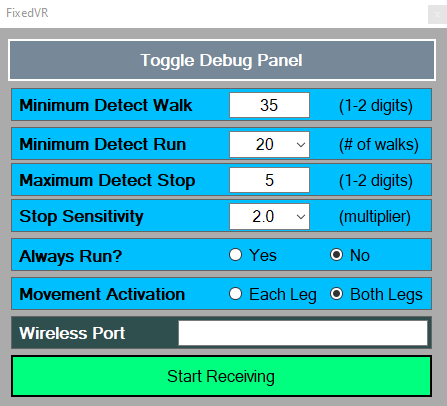
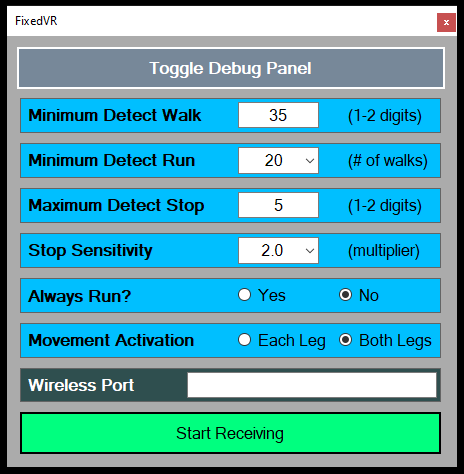
UI spacing

diff --git a/FixedVR/Main.Designer.cs b/FixedVR/Main.Designer.cs
@@ -92,7 +92,7 @@ namespace FixedVR
             this.Txt_debug.Multiline = true;
             this.Txt_debug.Name = "Txt_debug";
             this.Txt_debug.ScrollBars = System.Windows.Forms.ScrollBars.Vertical;
-            this.Txt_debug.Size = new System.Drawing.Size(421, 274);
+            this.Txt_debug.Size = new System.Drawing.Size(421, 324);
             this.Txt_debug.TabIndex = 0;
             this.Txt_debug.TabStop = false;
             // 
@@ -102,7 +102,8 @@ namespace FixedVR
             this.Btn_connect.FlatAppearance.BorderSize = 2;
             this.Btn_connect.FlatStyle = System.Windows.Forms.FlatStyle.Flat;
             this.Btn_connect.Font = new System.Drawing.Font("Microsoft Sans Serif", 12F, System.Drawing.FontStyle.Regular, System.Drawing.GraphicsUnit.Point, ((byte)(0)));
-            this.Btn_connect.Location = new System.Drawing.Point(3, 270);
+            this.Btn_connect.Location = new System.Drawing.Point(3, 319);
+            this.Btn_connect.Margin = new System.Windows.Forms.Padding(5);
             this.Btn_connect.Name = "Btn_connect";
             this.Btn_connect.Size = new System.Drawing.Size(421, 42);
             this.Btn_connect.TabIndex = 6;
@@ -119,7 +120,7 @@ namespace FixedVR
             this.Flowlayout_main.FlowDirection = System.Windows.Forms.FlowDirection.TopDown;
             this.Flowlayout_main.Location = new System.Drawing.Point(7, 8);
             this.Flowlayout_main.Name = "Flowlayout_main";
-            this.Flowlayout_main.Size = new System.Drawing.Size(436, 696);
+            this.Flowlayout_main.Size = new System.Drawing.Size(436, 794);
             this.Flowlayout_main.TabIndex = 7;
             // 
             // Btn_toggledebug
@@ -145,14 +146,14 @@ namespace FixedVR
             this.Panel_debug.Controls.Add(this.Txt_debug);
             this.Panel_debug.Location = new System.Drawing.Point(3, 49);
             this.Panel_debug.Name = "Panel_debug";
-            this.Panel_debug.Size = new System.Drawing.Size(428, 318);
+            this.Panel_debug.Size = new System.Drawing.Size(428, 367);
             this.Panel_debug.TabIndex = 8;
             this.Panel_debug.Visible = false;
             // 
             // Btn_stopdebug
             // 
             this.Btn_stopdebug.Font = new System.Drawing.Font("Microsoft Sans Serif", 12F, System.Drawing.FontStyle.Regular, System.Drawing.GraphicsUnit.Point, ((byte)(0)));
-            this.Btn_stopdebug.Location = new System.Drawing.Point(3, 283);
+            this.Btn_stopdebug.Location = new System.Drawing.Point(3, 333);
             this.Btn_stopdebug.Name = "Btn_stopdebug";
             this.Btn_stopdebug.Size = new System.Drawing.Size(421, 31);
             this.Btn_stopdebug.TabIndex = 5;
@@ -171,9 +172,9 @@ namespace FixedVR
             this.Panel_main.Controls.Add(this.Panel_alwaysrun);
             this.Panel_main.Controls.Add(this.Panel_movement);
             this.Panel_main.Controls.Add(this.Btn_connect);
-            this.Panel_main.Location = new System.Drawing.Point(3, 373);
+            this.Panel_main.Location = new System.Drawing.Point(3, 422);
             this.Panel_main.Name = "Panel_main";
-            this.Panel_main.Size = new System.Drawing.Size(428, 318);
+            this.Panel_main.Size = new System.Drawing.Size(428, 367);
             this.Panel_main.TabIndex = 9;
             // 
             // Panel_walkmin
@@ -183,9 +184,10 @@ namespace FixedVR
             this.Panel_walkmin.Controls.Add(this.label12);
             this.Panel_walkmin.Controls.Add(this.Txt_walkmin);
             this.Panel_walkmin.Controls.Add(this.Lbl_walkmin);
-            this.Panel_walkmin.Location = new System.Drawing.Point(3, 3);
+            this.Panel_walkmin.Location = new System.Drawing.Point(3, 5);
+            this.Panel_walkmin.Margin = new System.Windows.Forms.Padding(5);
             this.Panel_walkmin.Name = "Panel_walkmin";
-            this.Panel_walkmin.Size = new System.Drawing.Size(421, 33);
+            this.Panel_walkmin.Size = new System.Drawing.Size(421, 35);
             this.Panel_walkmin.TabIndex = 23;
             // 
             // label12
@@ -226,9 +228,10 @@ namespace FixedVR
             this.Panel_stopmax.Controls.Add(this.label2);
             this.Panel_stopmax.Controls.Add(this.Txt_stopdetection);
             this.Panel_stopmax.Controls.Add(this.Lbl_stopmax);
-            this.Panel_stopmax.Location = new System.Drawing.Point(3, 78);
+            this.Panel_stopmax.Location = new System.Drawing.Point(3, 95);
+            this.Panel_stopmax.Margin = new System.Windows.Forms.Padding(5);
             this.Panel_stopmax.Name = "Panel_stopmax";
-            this.Panel_stopmax.Size = new System.Drawing.Size(421, 33);
+            this.Panel_stopmax.Size = new System.Drawing.Size(421, 35);
             this.Panel_stopmax.TabIndex = 16;
             // 
             // label2
@@ -269,9 +272,10 @@ namespace FixedVR
             this.Panel_runmin.Controls.Add(this.label1);
             this.Panel_runmin.Controls.Add(this.Combo_detectrun);
             this.Panel_runmin.Controls.Add(this.Lbl_runmin);
-            this.Panel_runmin.Location = new System.Drawing.Point(3, 42);
+            this.Panel_runmin.Location = new System.Drawing.Point(3, 50);
+            this.Panel_runmin.Margin = new System.Windows.Forms.Padding(5);
             this.Panel_runmin.Name = "Panel_runmin";
-            this.Panel_runmin.Size = new System.Drawing.Size(421, 33);
+            this.Panel_runmin.Size = new System.Drawing.Size(421, 35);
             this.Panel_runmin.TabIndex = 21;
             // 
             // label1
@@ -315,9 +319,10 @@ namespace FixedVR
             this.Panel_stopsense.Controls.Add(this.label3);
             this.Panel_stopsense.Controls.Add(this.Combo_stopsensitivity);
             this.Panel_stopsense.Controls.Add(this.Lbl_stopsense);
-            this.Panel_stopsense.Location = new System.Drawing.Point(3, 114);
+            this.Panel_stopsense.Location = new System.Drawing.Point(3, 140);
+            this.Panel_stopsense.Margin = new System.Windows.Forms.Padding(5);
             this.Panel_stopsense.Name = "Panel_stopsense";
-            this.Panel_stopsense.Size = new System.Drawing.Size(421, 33);
+            this.Panel_stopsense.Size = new System.Drawing.Size(421, 35);
             this.Panel_stopsense.TabIndex = 17;
             // 
             // label3
@@ -360,9 +365,10 @@ namespace FixedVR
             this.Panel_port.BorderStyle = System.Windows.Forms.BorderStyle.FixedSingle;
             this.Panel_port.Controls.Add(this.Txt_serversocket);
             this.Panel_port.Controls.Add(this.Lbl_port);
-            this.Panel_port.Location = new System.Drawing.Point(3, 231);
+            this.Panel_port.Location = new System.Drawing.Point(3, 275);
+            this.Panel_port.Margin = new System.Windows.Forms.Padding(5);
             this.Panel_port.Name = "Panel_port";
-            this.Panel_port.Size = new System.Drawing.Size(421, 33);
+            this.Panel_port.Size = new System.Drawing.Size(421, 34);
             this.Panel_port.TabIndex = 19;
             // 
             // Txt_serversocket
@@ -394,9 +400,10 @@ namespace FixedVR
             this.Panel_alwaysrun.Controls.Add(this.Radio_alwaysrunno);
             this.Panel_alwaysrun.Controls.Add(this.Lbl_alwaysrun);
             this.Panel_alwaysrun.Controls.Add(this.Radio_alwaysrunyes);
-            this.Panel_alwaysrun.Location = new System.Drawing.Point(3, 153);
+            this.Panel_alwaysrun.Location = new System.Drawing.Point(3, 185);
+            this.Panel_alwaysrun.Margin = new System.Windows.Forms.Padding(5);
             this.Panel_alwaysrun.Name = "Panel_alwaysrun";
-            this.Panel_alwaysrun.Size = new System.Drawing.Size(421, 33);
+            this.Panel_alwaysrun.Size = new System.Drawing.Size(421, 35);
             this.Panel_alwaysrun.TabIndex = 15;
             // 
             // Radio_alwaysrunno
@@ -438,9 +445,10 @@ namespace FixedVR
             this.Panel_movement.Controls.Add(this.Radio_bothlegs);
             this.Panel_movement.Controls.Add(this.Lbl_movement);
             this.Panel_movement.Controls.Add(this.Radio_eachleg);
-            this.Panel_movement.Location = new System.Drawing.Point(3, 192);
+            this.Panel_movement.Location = new System.Drawing.Point(3, 230);
+            this.Panel_movement.Margin = new System.Windows.Forms.Padding(5);
             this.Panel_movement.Name = "Panel_movement";
-            this.Panel_movement.Size = new System.Drawing.Size(421, 33);
+            this.Panel_movement.Size = new System.Drawing.Size(421, 35);
             this.Panel_movement.TabIndex = 14;
             // 
             // Radio_bothlegs
@@ -568,7 +576,7 @@ namespace FixedVR
             this.AutoScaleDimensions = new System.Drawing.SizeF(6F, 13F);
             this.AutoScaleMode = System.Windows.Forms.AutoScaleMode.Font;
             this.BackColor = System.Drawing.SystemColors.AppWorkspace;
-            this.ClientSize = new System.Drawing.Size(450, 380);
+            this.ClientSize = new System.Drawing.Size(450, 431);
             this.Controls.Add(this.Panel_sidewaysense);
             this.Controls.Add(this.Flowlayout_main);
             this.Controls.Add(this.Panel_walkmax);
